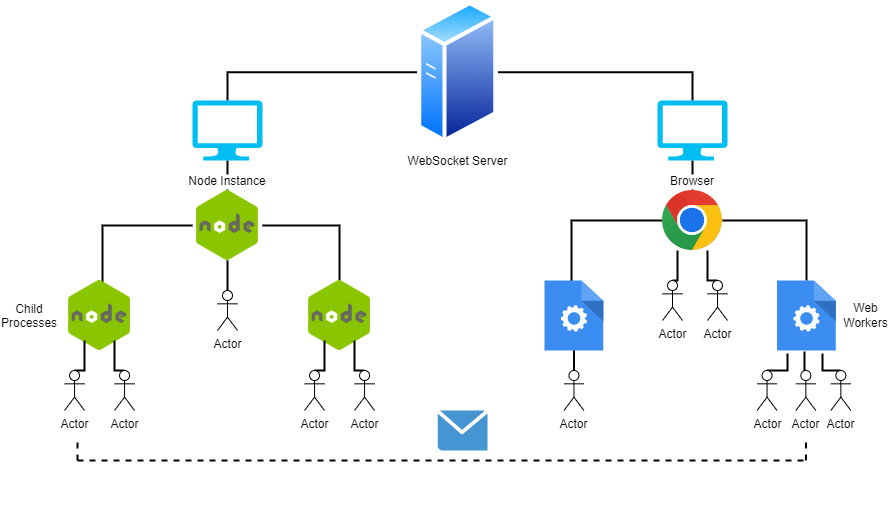
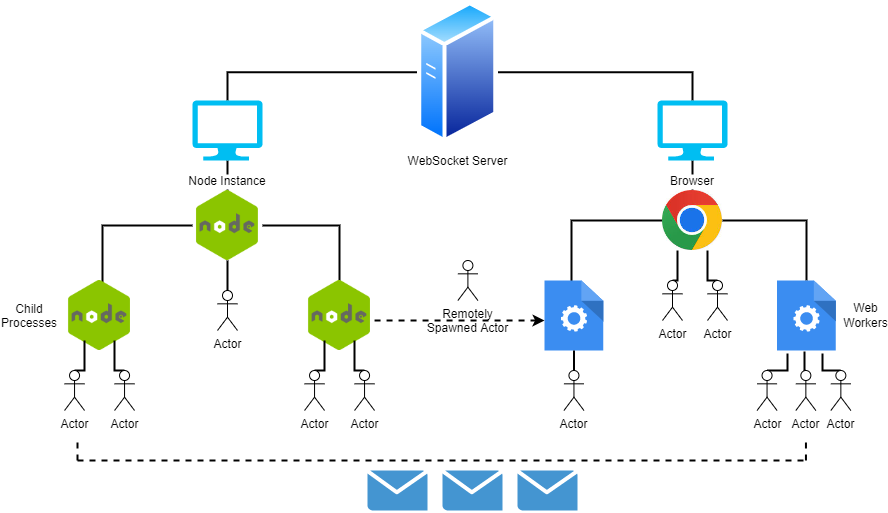
Moved pngs to documentation resources

Changed region(s): [[0.3953, 0.7797, 0.6689, 0.9981], [0.4561, 0.499, 0.6081, 0.655]]

diff --git a/src/actors.ts b/src/actors.ts
@@ -36,21 +36,21 @@ const emit = (name: string) => {
  * code is not limited to any behaviour and is free to manipulate the state and
  * message object accordingly
  */
-interface ActorCallback {
-    (state: object, message: object, self: ActorFacade): void
+interface ActorBehaviour {
+    (state: object, message: object, self: ActorReference): void
 }
 
 //Actor object interface
 interface Actor {
     name: string,
     state: { [key: string]: any },
-    behaviour: ActorCallback,
+    behaviour: ActorBehaviour,
     node: number,
     active: boolean
 }
 
 //Actor facade interface
-interface ActorFacade {
+interface ActorReference {
     name: string,
     node: number
 }
@@ -173,7 +173,7 @@ const closeConnection = () => {
  * @param behaviour The behaviour of the actor in response to a message
  * @returns A reference to the spawned actor
  */
-const spawn = (state: object, behaviour: ActorCallback | string | Function): ActorFacade => {
+const spawn = (state: object, behaviour: ActorBehaviour | string): ActorReference => {
     const cleanedBehaviour = (typeof behaviour === "string") ?
         Function('init', 'spawn', 'spawnRemote', 'terminate', 'send', 'closeConnection', 'return ' + behaviour)(init, spawn, spawnRemote, terminate, send, closeConnection)
         : behaviour;
@@ -200,7 +200,7 @@ const spawn = (state: object, behaviour: ActorCallback | string | Function): Act
  * @param timeout How long to wait to receive an acknowledgement for the remotely spawned actor
  * @returns A promise which resolves into a reference to the remote actor
  */
-const spawnRemote = (node: number, state: object, behaviour: ActorCallback, timeout: number = 0x7fffffff): Promise<ActorFacade> => {
+const spawnRemote = (node: number, state: object, behaviour: ActorBehaviour, timeout: number = 0x7fffffff): Promise<ActorReference> => {
     return new Promise((resolve, reject) => {
         const name = uuidv4()
         const payload = { header: "SPAWN", to: node, remoteActorId: name, behaviour: behaviour.toString().trim().replace(/\n/g, ''), state }
@@ -220,7 +220,7 @@ const spawnRemote = (node: number, state: object, behaviour: ActorCallback, time
  * @param actor The actor to send the message to
  * @param message The message object to send to an actor
  */
-const send = (actor: ActorFacade, message: object): void => {
+const send = (actor: ActorReference, message: object): void => {
     if (actor.node === yourNetworkNumber) {
         const localActor = actors[actor.name]
         //Local send
@@ -259,7 +259,7 @@ const forward = (payload: any): void => {
  * @param actor The actor to terminate
  * @param force True to immediately stop the actor, false to let it process remaining messages and terminate safely
  */
-const terminate = (actor: ActorFacade, force: boolean = false) => {
+const terminate = (actor: ActorReference, force: boolean = false) => {
     const localActor = actors[actor.name];
     if (localActor) {
         removeListener(localActor.name)

diff --git a/documentation/fyp-report/fyp.tex b/documentation/fyp-report/fyp.tex
@@ -128,7 +128,9 @@ This dissertation will explore the suitability of the Actor Model when used to r
     \item Benchmark the performance and scalability of the developed prototype.
 \end{enumerate}
 
-\chapter{Background}
+Section 2 contains the Background and literature review. The design and implementation details are covered in section 3, and the implementation is benchmarked and evaluated in section 4. Section 5 contains the conclusions and future work.
+
+\chapter{Background and Literature Review}
 \section{Concurrency and Parallelism on JavaScript}
 Concurrency allows one to switch the order of the execution of tasks without yielding an incorrect output. Since the order in which a program is executed would not an issue, one can run these code segments in parallel, reducing the time taken to solve a particular problem. JavaScript and Node.js rely on a single threaded non-blocking event loop~\cite{eventloopbrowser}\cite{eventloopnode} which do not support parallel execution of such tasks, raising an issue when high performance~\cite{highperformance} computing is required. If JavaScript had to block when input or output was required, it would stop a page from being responsive. Instead, JavaScript handles I/O using events and callbacks which were posted on the event queue. The runtime will eventually process all the messages in a FIFO order, where each event has a corresponding callback or event listener function to execute. Each message is processed to completion without pre-emption by the processing of a different message, allowing for predictable concurrency of code. Web Workers\cite{webworkers} and child processes\cite{cluster} can be used to bring parallel computation to JavaScript~\cite{concurrencyjs}\cite{spidersjs} and uses a similar philosophy to that of the actor model. Both involve independently running tasks which communicate through messaging in order to allow for collaboration in solving a particular problem.
 
@@ -155,6 +157,7 @@ Several JavaScript frameworks which implement the Actor model are already availa
 A project similar to this dissertation's prototype is called \textbf{Spiders.js}~\cite{spidersjs}. The paper identifies the problem of different API's being used for web workers and child processes, both of which are inspired by the actor model for constructing parallel systems using JavaScript. This project is focused on defining a single actor model API no matter if it's a client or server-side application. The paper benchmarks the usage of Spiders.js against JavaScript native web workers as well as the actor creation overhead for both. The results are in favour of using web workers for such tasks. This is no surprise as the project is an abstraction built on top web workers on the client side.
 
 \textbf{TigerQuoll}~\cite{tigerquoll} took a different approach when providing parallelism to the language. It acknowledged the actor model as too limited for the requirements of more complex patterns that occur in modern applications. Instead it allows developers to use regular event based programming to register events for parallel processing. Other popular implementations on GitHub are \textbf{Drama}~\cite{drama} and \textbf{Comedy}~\cite{comedy}, both of which allow for sending messages to spawned actors. The latter implementation allows for spawning of actors on remote machines.
+
 \chapter{Design}
 The API’s goal is to allow developers to intuitively engineer concurrent and parallel code in JavaScript through the actor model. The developer can define how an actor will process each message using a callback function, and spawn it on a JavaScript runtime. This runtime can be either local or remote, and it can run on a Node.js instance or any modern browser with full interoperability. Programs will be made up of multiple spawned isolated actors, similar to the micro-services approach adopted by the industry. Each actor will be serving incoming requests (messages) and can optionally send messages to other actors such as the sender. Furthermore, an actor can spawn other actors and send the reference to the newly spawned actors to other actors embedded inside a message.
 
